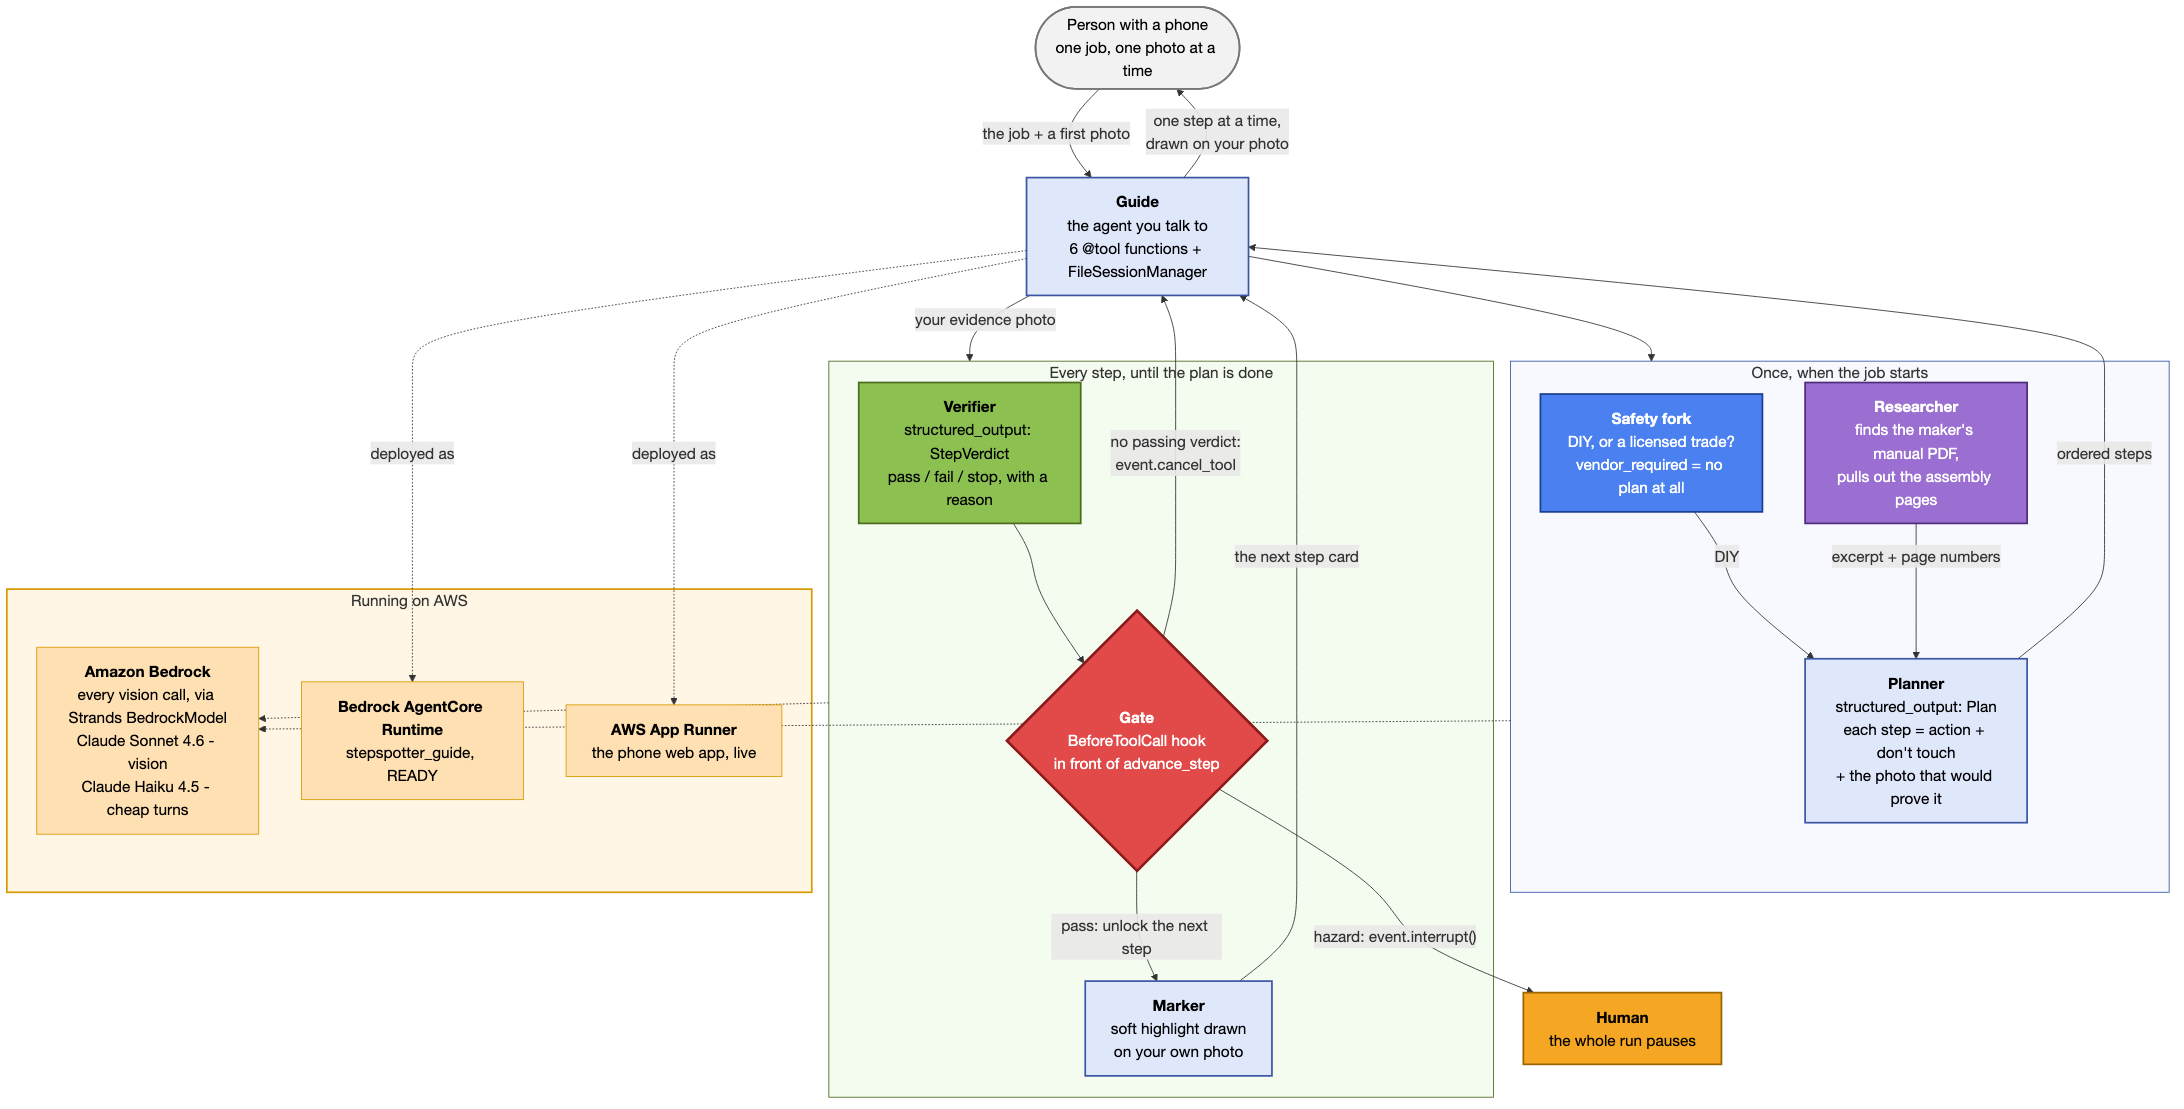
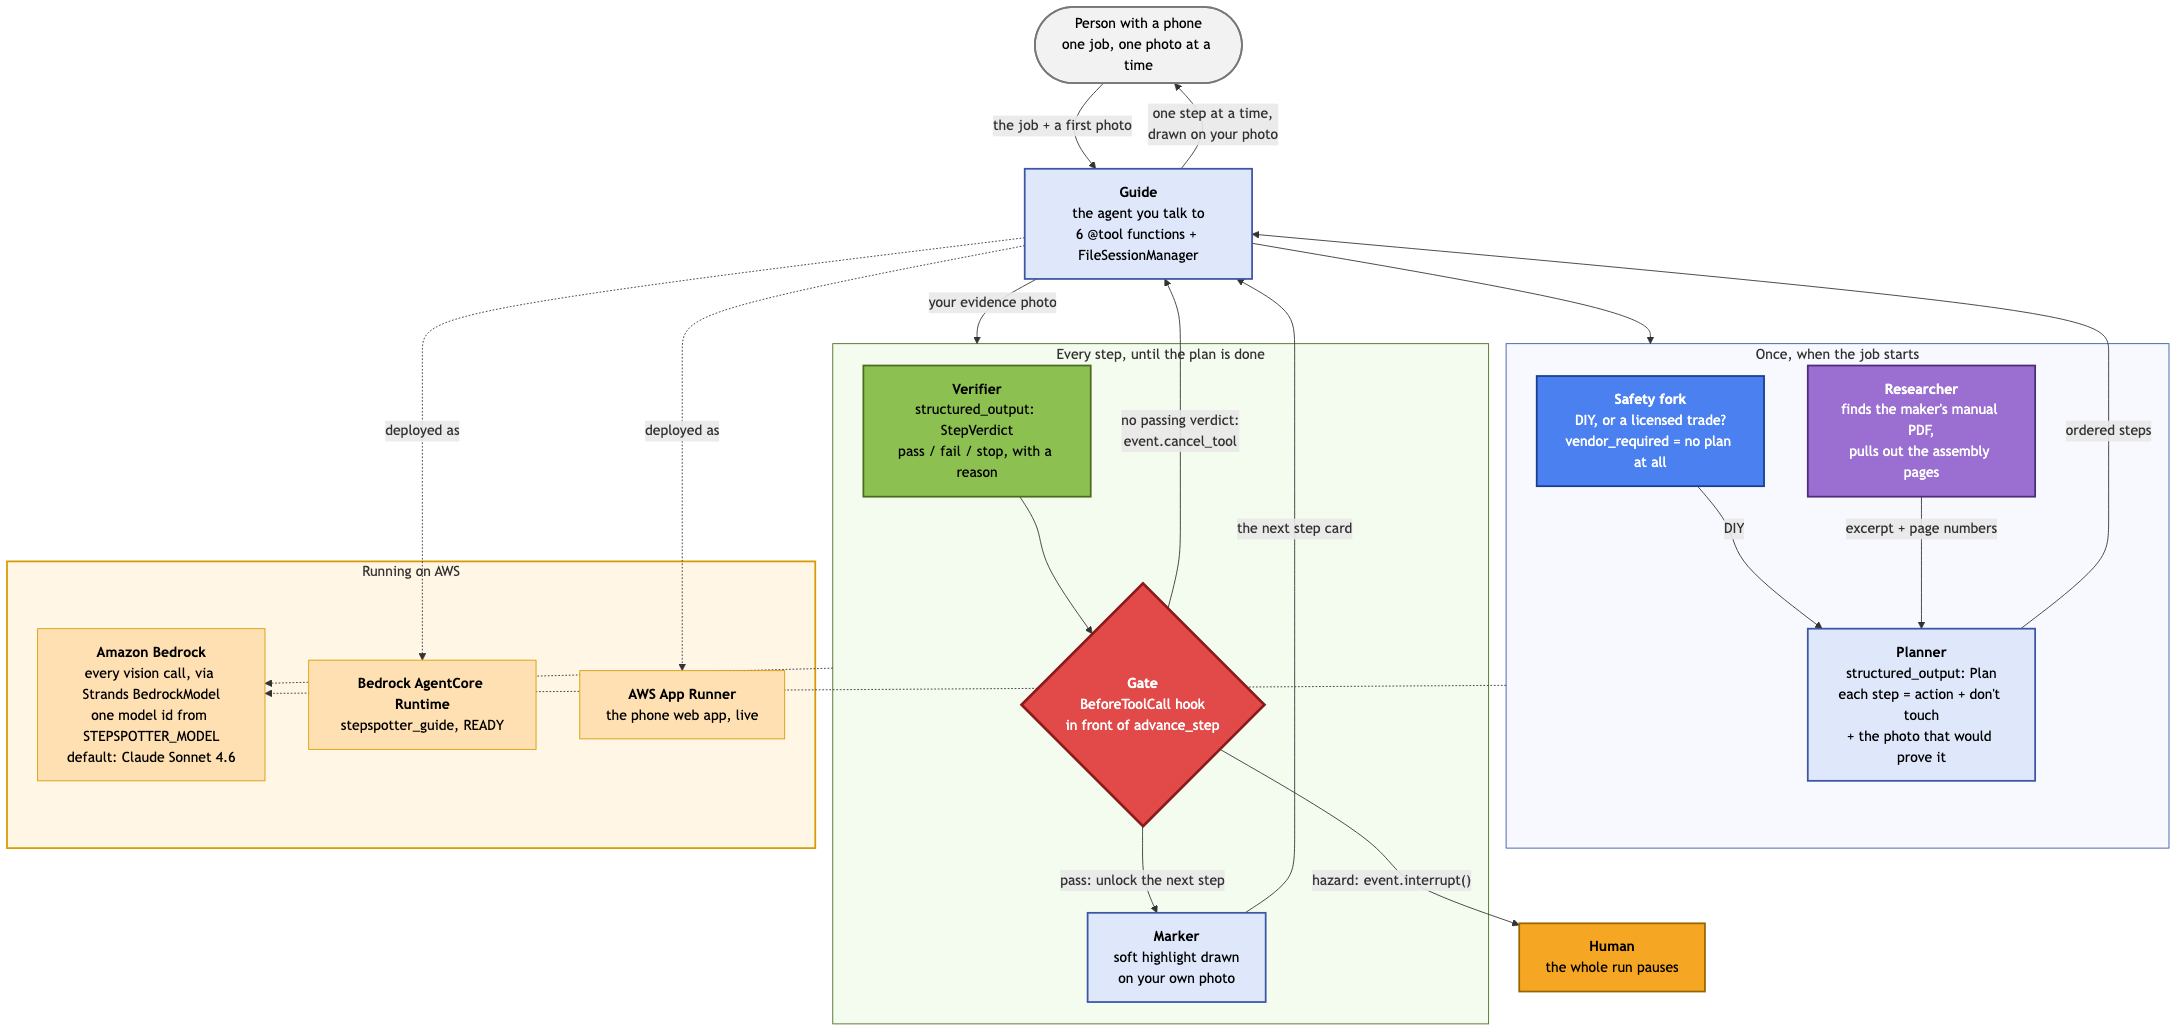
Bake Ryobi RY40LB01K manual into the cache; single-model docs and diagram; judge testing instructions in README

diff --git a/README.md b/README.md
@@ -301,9 +301,10 @@ Amazon Bedrock calls, and need three things on your account:
 
 3. **Model access** for Anthropic models in the Bedrock console (*Bedrock → Model
    access*), in `us-east-1` — Claude Sonnet 4.6 (`global.anthropic.claude-sonnet-4-6`,
-   the default here) and Claude Haiku 4.5 (`us.anthropic.claude-haiku-4-5`). Without
-   it you get the same `ValidationException: Operation not allowed`, which is why it
-   is worth ruling out before you go looking for a bug in this repo.
+   the default here). If you override `STEPSPOTTER_MODEL` with a different model id,
+   request access for that one too. Without it you get the same `ValidationException:
+   Operation not allowed`, which is why it is worth ruling out before you go looking
+   for a bug in this repo.
 
 Run the phone-first web UI (needs the AWS export above):
 
@@ -340,6 +341,19 @@ costs nothing: `advance` calls no model and is not rate-limited.
 | `POST /api/jobs/{id}/advance` (`intent=skip`) | ask to move on with no photo behind it — the gate refuses, and the ask is on the trace |
 | `GET /api/jobs/{id}/trace?view=human` | who did what, what came back, why — no paths, no ids |
 | `GET /api/jobs/{id}/trace?view=raw` | the operator's log, behind the page's "raw" link |
+
+### Testing instructions for judges
+
+- **Live app, no install:** <https://w7ihmvgxxj.us-east-1.awsapprunner.com> — open it on a
+  phone if you can, the photo buttons go straight to the rear camera. No panel handy? Use
+  the **Try a demo job** button above, or attach `fixtures/onq-keystone-smoke/steps/*.jpg`
+  in order to a job you type yourself.
+- **The thing to try:** submit `fixtures/onq-keystone-smoke/redteam/R1-wrong-photo.jpg` as
+  evidence instead. Expected: a "Not done yet" verdict naming what's missing, the step
+  counter unchanged — the gate refusing in code, visible in the trace.
+- **Cold from the repo:** `pip install -e ".[dev]"` then `python -m pytest -q` needs no AWS
+  account; running the live agent (`stepspotter serve`, `stepspotter research`) needs the
+  Bedrock export and model access above.
 
 Run the eval harness against the checked-in smoke fixture (needs the AWS export
 above — it makes real Bedrock calls):

diff --git a/docs/BLOG-DRAFT-builder-aws.md b/docs/BLOG-DRAFT-builder-aws.md
@@ -37,7 +37,7 @@ class StepGate(HookProvider):
                 "Send a photo of the finished step and I will verify it first."
 ```
 
-Two details I got from introspecting the running SDK (strands-agents 1.54.0) rather
+Two details I got from introspecting the running SDK (strands-agents 1.55.0) rather
 than from docs. `cancel_tool` takes a **string**, not a boolean — the string becomes the
 tool result the model reads back, so the refusal the user sees is my text, not a
 paraphrase of an error. And the event is frozen against everything except `cancel_tool`,
@@ -80,7 +80,7 @@ allowed to erase something you already have.
 
 ## What the vision model is and isn't good at
 
-Amazon Bedrock (Claude Sonnet 4.6 for vision and planning, Haiku 4.5 for cheap turns)
+Amazon Bedrock (Claude Sonnet 4.6 for vision and planning, via Strands BedrockModel)
 handles verdicts well: eight out of eight correct pass/fail calls on real photos of my
 own panel, including every case where the claimed object wasn't in frame — it refused
 instead of guessing.
@@ -107,5 +107,6 @@ The one thing I'd change: job state lives in the instance's `/tmp`, which is eph
 S3 is the fix, and it's the next commit rather than a lesson.
 
 Built for the Agents for Humans hackathon, Everyday Agents track, on Strands Agents.
+Live app (open it on a phone): https://w7ihmvgxxj.us-east-1.awsapprunner.com
 Code, architecture diagram and the published eval run:
 https://github.com/retailbox-automation/stepspotter

diff --git a/docs/ARCHITECTURE.md b/docs/ARCHITECTURE.md
@@ -95,7 +95,7 @@ flowchart TB
 
     subgraph AWS["Running on AWS"]
         direction LR
-        BR["<b>Amazon Bedrock</b><br/>every vision call, via Strands BedrockModel<br/>Claude Sonnet 4.6 - vision<br/>Claude Haiku 4.5 - cheap turns"]
+        BR["<b>Amazon Bedrock</b><br/>every vision call, via Strands BedrockModel<br/>one model id from STEPSPOTTER_MODEL<br/>default: Claude Sonnet 4.6"]
         AC["<b>Bedrock AgentCore Runtime</b><br/>stepspotter_guide, READY"]
         AR["<b>AWS App Runner</b><br/>the phone web app, live"]
     end

diff --git a/docs/DEVPOST-DESCRIPTION.md b/docs/DEVPOST-DESCRIPTION.md
@@ -200,6 +200,6 @@ done) and 3/3 red-team. The 12-step set in `docs/EVAL-PLAN.md` has not been run.
 
 ## Built with
 
-Strands Agents SDK (Python), Amazon Bedrock (Claude Sonnet 4.6 for vision, Claude Haiku 4.5
-for cheap turns), Amazon Bedrock AgentCore Runtime, AWS App Runner, Docker, Python 3.12,
+Strands Agents SDK (Python), Amazon Bedrock (Claude Sonnet 4.6 for vision, via Strands
+BedrockModel), Amazon Bedrock AgentCore Runtime, AWS App Runner, Docker, Python 3.12,
 FastAPI, Pydantic, Pillow, pypdf, pytest.
